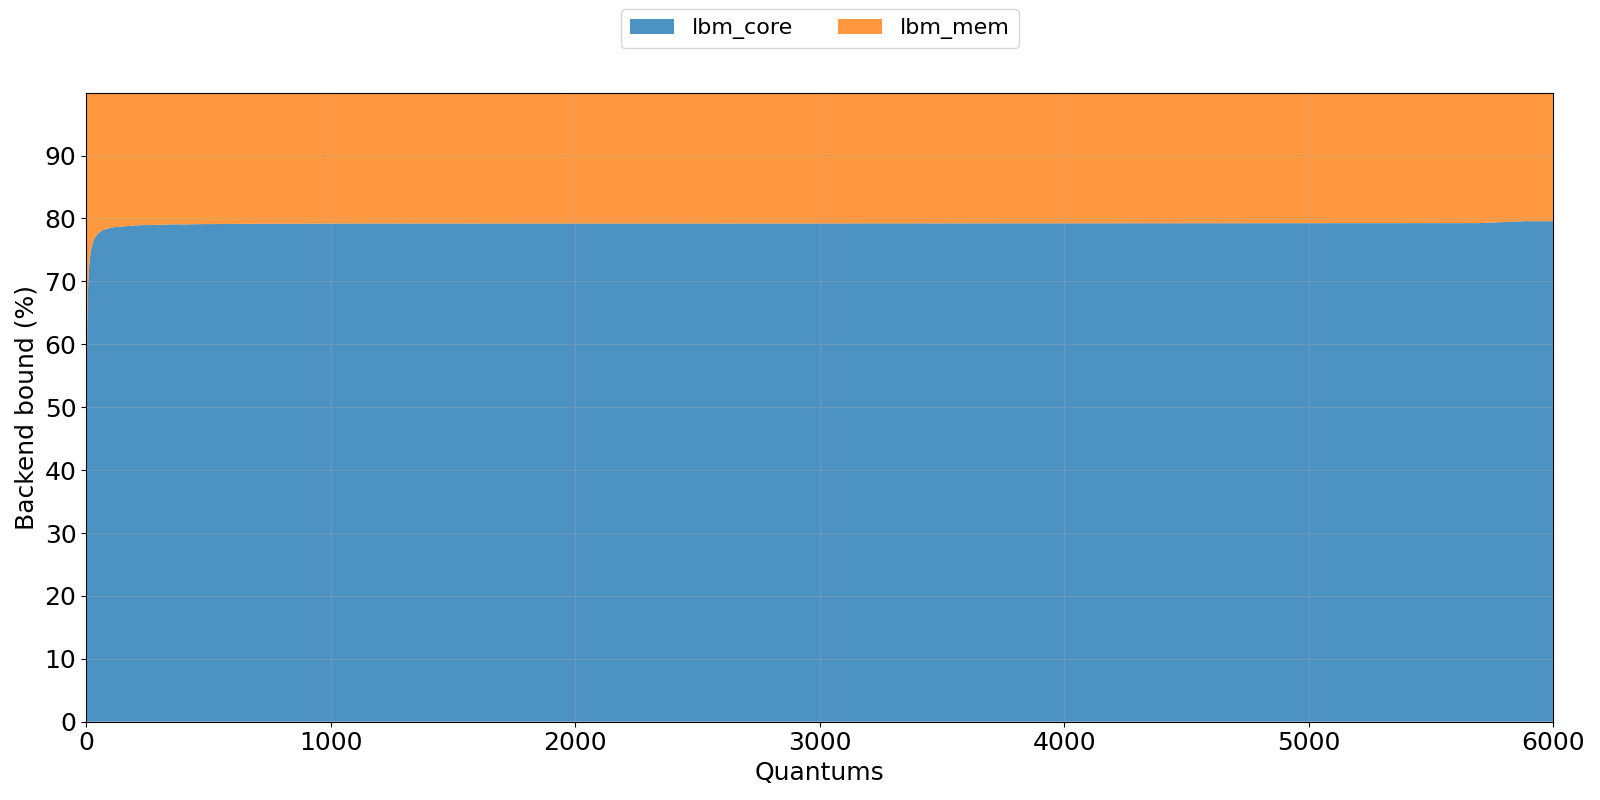
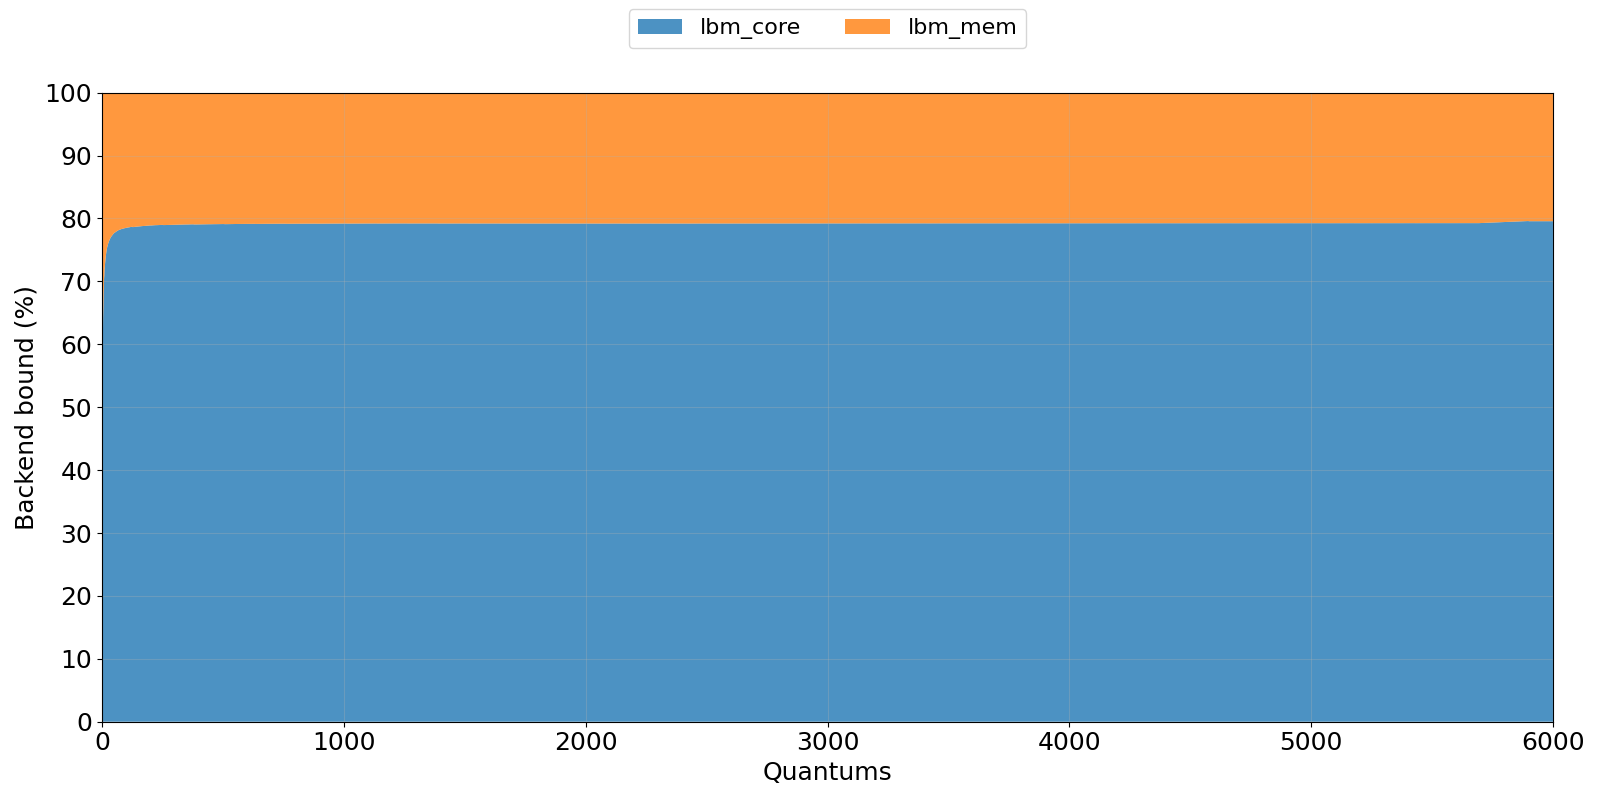
gráficas topdown 3

diff --git a/graficar_topdown.py b/graficar_topdown.py
@@ -67,7 +67,7 @@ def main():
                 plt.xlabel('Quantums', fontsize=18)
                 plt.ylabel('Backend bound (%)', fontsize=18)
                 plt.xticks(fontsize=18)
-                plt.yticks(range(0, 100, 10), fontsize=18)
+                plt.yticks(range(0, 101, 10), fontsize=18)
                 plt.grid(True, alpha=0.3)
                 plt.xlim(0, 6000)
                 plt.ylim(0, 100)
